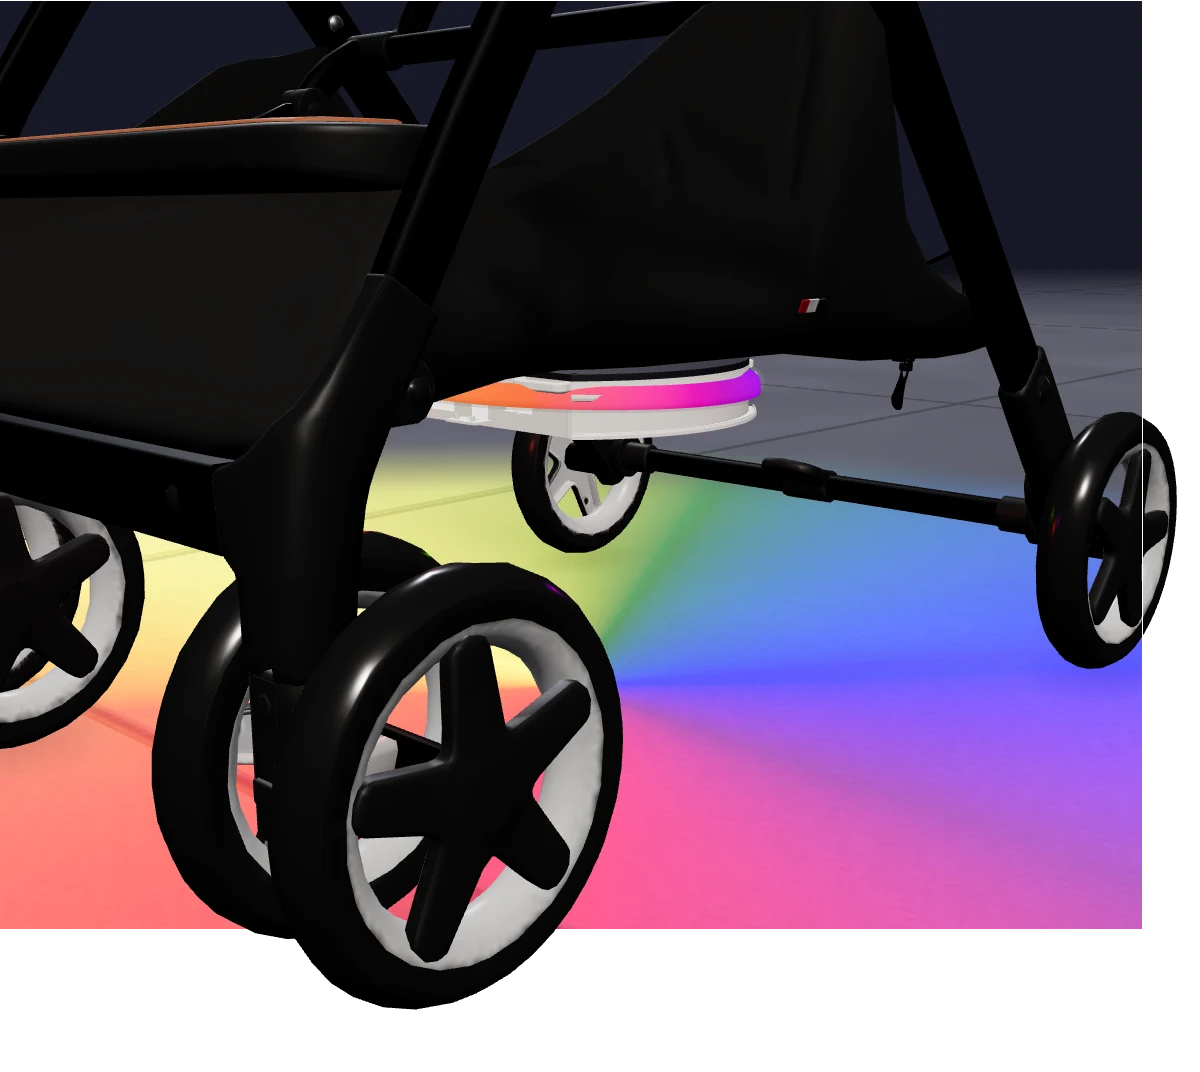
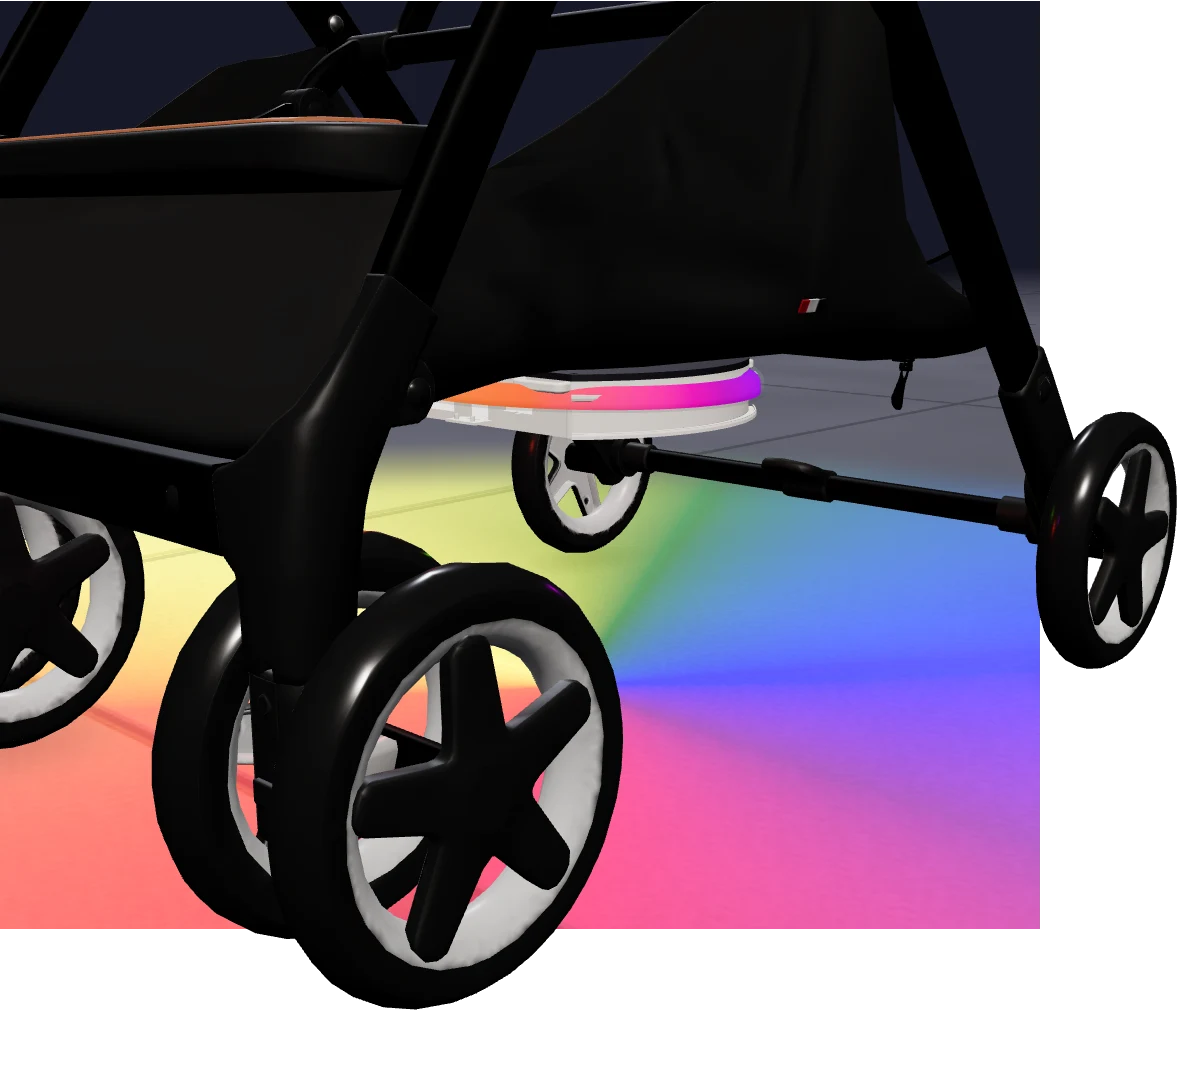
Move rear wheel beyond hero window
Shift the fake viewport left so the complete rear wheel renders in transparent overflow, replace the seam-prone CSS mask with a responsive SVG clip, and keep poster capture proportions aligned.

diff --git a/src/app/globals.css b/src/app/globals.css
@@ -1,13 +1,13 @@
 @import "tailwindcss";
 
-.interactive-hero { --hero-breakout-x: clamp(1.25rem, 5vw, 1.75rem); --hero-breakout-y: clamp(1.1rem, 4.5vw, 1.55rem); --hero-frame-bottom: clamp(2.25rem, 8vw, 2.75rem); position: relative; width: 100%; border-radius: 2rem; overflow: visible; box-shadow: 0 24px 70px #5a0fea0c; }
+.interactive-hero { --hero-breakout-x: 5%; --hero-breakout-y: 5%; --hero-frame-right: 9%; --hero-frame-bottom: 9%; position: relative; width: 100%; border-radius: 2rem; overflow: visible; box-shadow: 0 24px 70px #5a0fea0c; }
+.interactive-hero-clip { position: absolute; width: 0; height: 0; }
 .interactive-hero-stage { position: relative; z-index: 2; aspect-ratio: 1.12; }
 .interactive-hero-stage, .interactive-hero-stage * { -webkit-user-select: none; user-select: none; -webkit-touch-callout: none; -webkit-tap-highlight-color: transparent; }
-.interactive-hero-render { position: absolute; inset: 0 calc(-1 * var(--hero-breakout-x)) calc(-1 * var(--hero-breakout-y)) 0; z-index: 2; overflow: hidden; border-radius: 2rem 2rem 1.5rem .5rem; -webkit-mask: linear-gradient(#000 0 0) 0 2rem / 100% calc(100% - 2rem) no-repeat, linear-gradient(#000 0 0) 0 0 / calc(100% - var(--hero-breakout-x) - 2rem) 2rem no-repeat, radial-gradient(circle at 0 100%, #000 0 2rem, transparent calc(2rem + 1px)) right var(--hero-breakout-x) top 0 / 2rem 2rem no-repeat; mask: linear-gradient(#000 0 0) 0 2rem / 100% calc(100% - 2rem) no-repeat, linear-gradient(#000 0 0) 0 0 / calc(100% - var(--hero-breakout-x) - 2rem) 2rem no-repeat, radial-gradient(circle at 0 100%, #000 0 2rem, transparent calc(2rem + 1px)) right var(--hero-breakout-x) top 0 / 2rem 2rem no-repeat; }
-.interactive-hero-poster { transition: opacity 150ms ease; }
+.interactive-hero-render { position: absolute; inset: 0 calc(-1 * var(--hero-breakout-x)) calc(-1 * var(--hero-breakout-y)) 0; z-index: 2; overflow: hidden; clip-path: url("#interactive-hero-window"); }
 .interactive-hero-poster.is-hidden { opacity: 0; }
-.interactive-hero-frame { position: absolute; inset: 0 0 var(--hero-frame-bottom); z-index: 3; pointer-events: none; }
-.interactive-hero-canvas { position: absolute; inset: 0; opacity: 0; pointer-events: none; transition: opacity 650ms ease; }
+.interactive-hero-frame { position: absolute; inset: 0 var(--hero-frame-right) var(--hero-frame-bottom) 0; z-index: 3; pointer-events: none; }
+.interactive-hero-canvas { position: absolute; inset: 0; opacity: 0; pointer-events: none; }
 .interactive-hero-canvas.is-ready { opacity: 1; cursor: grab; pointer-events: auto; }
 .interactive-hero-canvas.is-ready:active { cursor: grabbing; }
 .interactive-hero-canvas canvas { display: block; width: 100%; height: 100%; }
@@ -26,7 +26,6 @@
 .hero-mode-dot-visibility { background: #ffbd2e; }
 .hero-media-caption { display: grid; gap: .5rem; padding: .9rem 1rem 1.5rem; text-align: center; font-size: .73rem; line-height: 1.5; color: #574963; min-height: 5.5rem; }
 .hero-media-caption > span:last-child { font-size: .62rem; letter-spacing: .07em; text-transform: uppercase; }
-@media (prefers-reduced-motion: reduce) { .interactive-hero-canvas, .interactive-hero-poster { transition: none; } }
 @media (max-width: 360px) { .hero-mode-dot { display: none; } }
 @media (min-width: 1024px) {
   .hero-layout { grid-template-areas: "intro media" "details media"; gap: 0 2rem; }

diff --git a/src/components/home/interactive-hero-media.tsx b/src/components/home/interactive-hero-media.tsx
@@ -136,6 +136,11 @@ export function InteractiveHeroMedia({ sceneAvailable = false }: { sceneAvailabl
 
   return (
     <figure className="interactive-hero" aria-label="Explore the Glowbaby stroller light concept">
+      <svg className="interactive-hero-clip" aria-hidden="true">
+        <clipPath id="interactive-hero-window" clipPathUnits="objectBoundingBox">
+          <path d="M0 .067 Q0 0 .06 0 H.8067 Q.8667 0 .8667 .067 H1 V1 H0 Z" />
+        </clipPath>
+      </svg>
       <div className="interactive-hero-stage" onContextMenu={(event) => event.preventDefault()}>
         <div className="interactive-hero-render">
           <Image src={posters[mode]} alt="Close-up of the Glowbaby prototype beneath a stroller basket, casting colored light across a concrete sidewalk at dusk." fill draggable={false} loading="eager" fetchPriority="high" sizes="(min-width: 1240px) 600px, (min-width: 1024px) calc((100vw - 5rem) / 2), (min-width: 640px) calc(100vw - 2rem), calc(100vw - .75rem)" className={`interactive-hero-poster object-contain ${ready ? "is-hidden" : ""}`} onLoad={() => {
